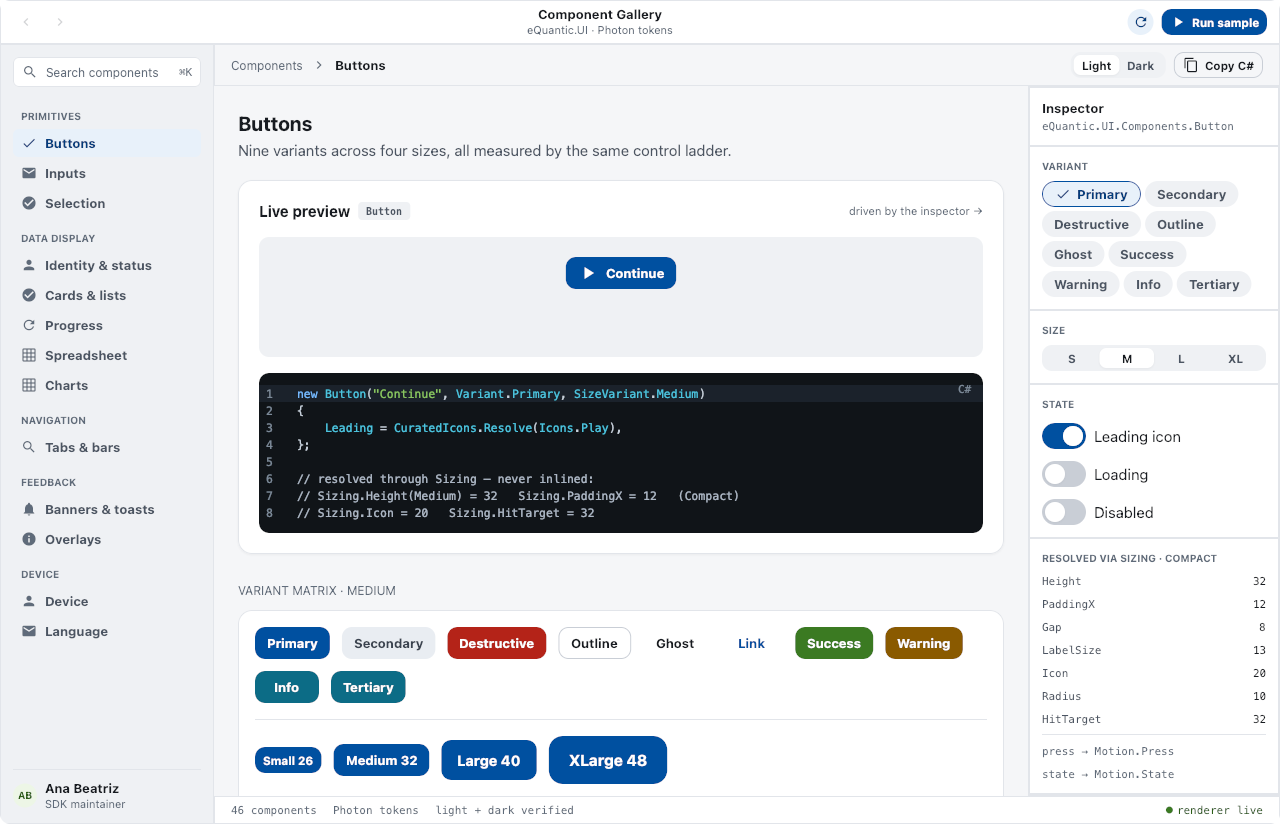
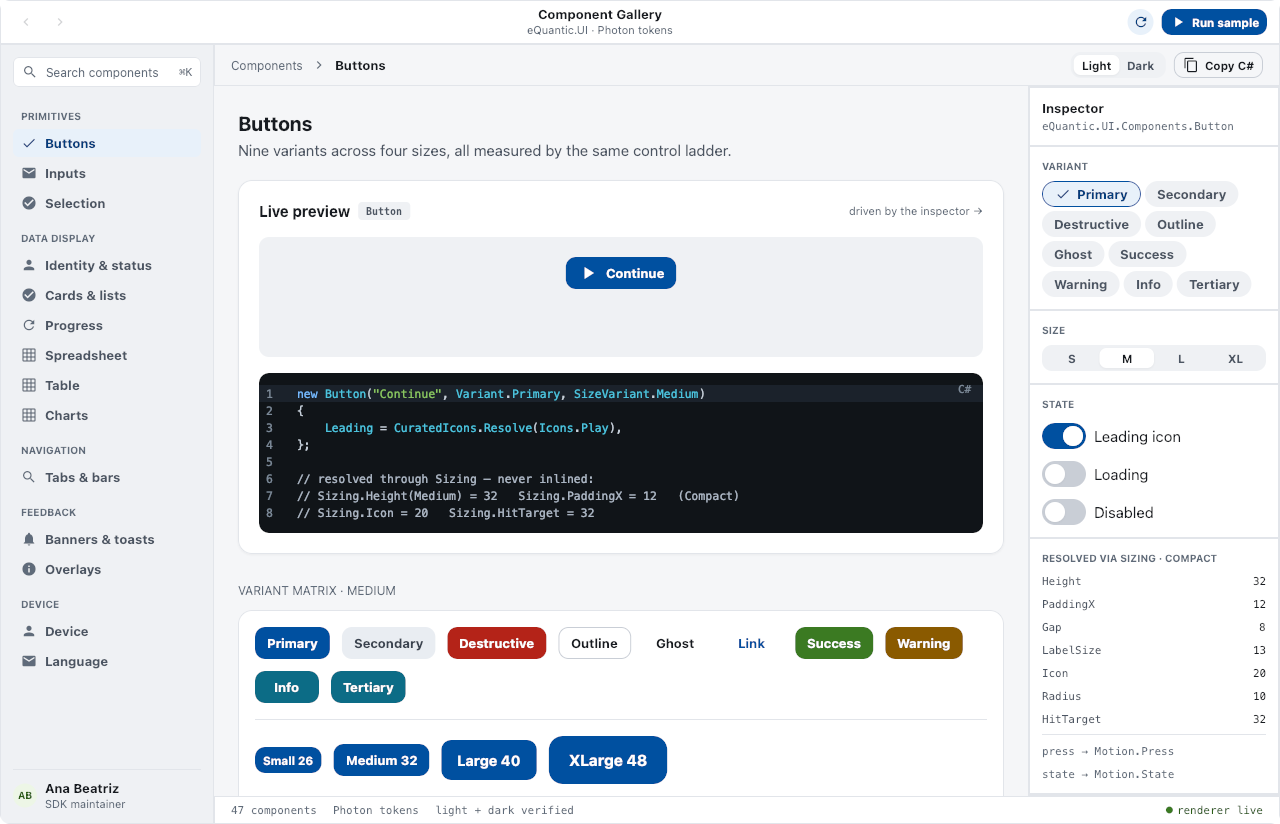
✨ feat: Excel's grid in the Photon gallery
The PhotonDesktop gallery gains a Table section under Data display: the
same grid the dashboard serves at /table, 1,048,576 rows by 16,384
columns behind a pinned header row and column. The studio walk lets a
table viewport place cells past its edges, under its clips, where a
scroll reaches them, and the README's gallery pictures are taken again
for the new entry in the sidebar.

Changed region(s): [[0.0, 0.4551, 0.125, 0.6978], [0.0, 0.7282, 0.0938, 0.8192]]

diff --git a/samples/PhotonDesktop/Studio/Gallery.cs b/samples/PhotonDesktop/Studio/Gallery.cs
@@ -19,12 +19,13 @@ public enum GallerySection
     Containers = 4,
     Progress = 5,
     Sheets = 6,
-    Charts = 7,
-    Navigation = 8,
-    Feedback = 9,
-    Overlays = 10,
-    Device = 11,
-    Culture = 12,
+    Table = 7,
+    Charts = 8,
+    Navigation = 9,
+    Feedback = 10,
+    Overlays = 11,
+    Device = 12,
+    Culture = 13,
 }
 
 /// <summary>
@@ -56,6 +57,7 @@ public static class Gallery
         GallerySection.Feedback => "Banners & toasts",
         GallerySection.Overlays => "Overlays",
         GallerySection.Sheets => "Spreadsheet",
+        GallerySection.Table => "Table",
         GallerySection.Charts => "Charts",
         GallerySection.Culture => "Language",
         _ => "Device",
@@ -67,7 +69,7 @@ public static class Gallery
     {
         GallerySection.Buttons or GallerySection.Inputs or GallerySection.Selection => "Primitives",
         GallerySection.DataDisplay or GallerySection.Containers or GallerySection.Progress
-            or GallerySection.Sheets or GallerySection.Charts => "Data display",
+            or GallerySection.Sheets or GallerySection.Table or GallerySection.Charts => "Data display",
         GallerySection.Navigation => "Navigation",
         GallerySection.Feedback or GallerySection.Overlays => "Feedback",
         _ => "Device",   // Language belongs here too: what the MACHINE says, taken as a service.
@@ -103,6 +105,8 @@ public static class Gallery
             "Surfaces over the page — and how each one maps to a desktop window.",
         GallerySection.Sheets =>
             "The editable grid: Excel's keyboard, TSV clipboard, drag-resize — one C# for every target.",
+        GallerySection.Table =>
+            "Excel's whole grid, built only where it is in view: both axes scroll, the header row and column stay.",
         GallerySection.Charts =>
             "Bars from the theme's data palette, drawn with the engine's own shapes — one C# for the web and this window.",
         GallerySection.Culture =>
@@ -122,6 +126,7 @@ public static class Gallery
         GallerySection.Feedback => Icons.Notifications,
         GallerySection.Overlays => Icons.Info,
         GallerySection.Sheets => Icons.Table,
+        GallerySection.Table => Icons.Table,
         GallerySection.Charts => Icons.Table,
         GallerySection.Culture => Icons.Mail,
         _ => Icons.Person,
@@ -140,6 +145,7 @@ public static class Gallery
         GallerySection.Feedback => 4,
         GallerySection.Overlays => 4,
         GallerySection.Sheets => 1,
+        GallerySection.Table => 1,
         GallerySection.Charts => 1,
         GallerySection.Culture => 2,
         _ => 6,
@@ -159,6 +165,7 @@ public static class Gallery
         GallerySection.Feedback => Feedback(theme, state, mutate),
         GallerySection.Overlays => Overlays(theme, state, mutate),
         GallerySection.Sheets => Sheets(theme, state),
+        GallerySection.Table => TableGrid(theme),
         GallerySection.Charts => Charts(theme),
         GallerySection.Culture => Culture(theme, state),
         _ => Device(theme, state, mutate),
@@ -751,6 +758,45 @@ public static class Gallery
                 Height = SizeValue.Fill,
             }));
         return Section(theme, "Spreadsheet", column);
+    }
+
+    // Excel's sheet, plus the header row and the column of row numbers in front of it.
+    private static readonly TableSpans GridRows = new UniformTableSpans(1_048_576 + 1, 28);
+    private static readonly TableSpans GridColumns = new UniformTableSpans(16_384 + 1, 96);
+
+    /// <summary>The two-axis viewport (#982): the same grid the web dashboard serves at /table, each
+    /// cell showing its address behind a pinned header row and a pinned column of row numbers, built
+    /// only where it is in view.</summary>
+    private static VisualNode TableGrid(IAppTheme theme)
+    {
+        var column = Column(Space.S2);
+        column.Add(Caption(theme,
+            "Scroll both axes with the trackpad or a finger's fling, Shift turns the wheel sideways, "
+            + "and the scrollbars reach the last cell, XFD1048576."));
+        column.Add(new Box(new BoxStyle { Width = SizeValue.Fill, Height = SizeValue.Fixed(420) },
+            TableView(GridRows, GridColumns, (row, col) => GridCell(theme, row, col),
+                pinnedRows: 1, pinnedColumns: 1, width: SizeValue.Fill, height: SizeValue.Fill,
+                label: "Excel's grid")));
+        return Section(theme, "Table", column);
+    }
+
+    /// <summary>A header across the top, a number down the side, and an address everywhere else.</summary>
+    private static VisualNode GridCell(IAppTheme theme, int row, int column)
+    {
+        var header = row == 0 || column == 0;
+        var label = row == 0 && column == 0 ? ""
+            : row == 0 ? Spreadsheet.ColumnName(column - 1)
+            : column == 0 ? $"{row}"
+            : $"{Spreadsheet.ColumnName(column - 1)}{row}";
+        return new Box(new BoxStyle
+        {
+            Width = SizeValue.Fill,
+            Height = SizeValue.Fill,
+            Background = header ? theme.SurfaceSubtle : theme.Surface,
+            BorderColor = theme.Border,
+            BorderWidth = 0.5f,
+            Padding = new EdgeInsets(0, 6, 0, 6),
+        }, new Text(label, TypeRole.Caption, header ? theme.TextMuted : theme.TextPrimary, maxLines: 1));
     }
 
     /// <summary>

diff --git a/tests/eQuantic.UI.Native.Engine.Tests/StudioWalkTests.cs b/tests/eQuantic.UI.Native.Engine.Tests/StudioWalkTests.cs
@@ -159,10 +159,11 @@ public class StudioWalkTests(ITestOutputHelper output)
         void Walk(LayoutNode node)
         {
             // Nodes that place children OUTSIDE themselves on purpose: a stack overlaps, an
-            // anchored panel hangs off its trigger, a drag translates. Everything else is flow,
-            // and in flow a child that sticks out is content nobody can reach.
+            // anchored panel hangs off its trigger, a drag translates, and a table viewport places
+            // the cells past its edges under its clips, where a scroll reaches them. Everything else
+            // is flow, and in flow a child that sticks out is content nobody can reach.
             var placesFreely = node.Source is Stack or Overlay or Anchored or Positioned
-                or Draggable or DragDismiss
+                or Draggable or DragDismiss or TableViewport
                 or eQuantic.UI.Components.Tooltip or eQuantic.UI.Components.Menu
                 or eQuantic.UI.Components.Select;
             if (!placesFreely)
